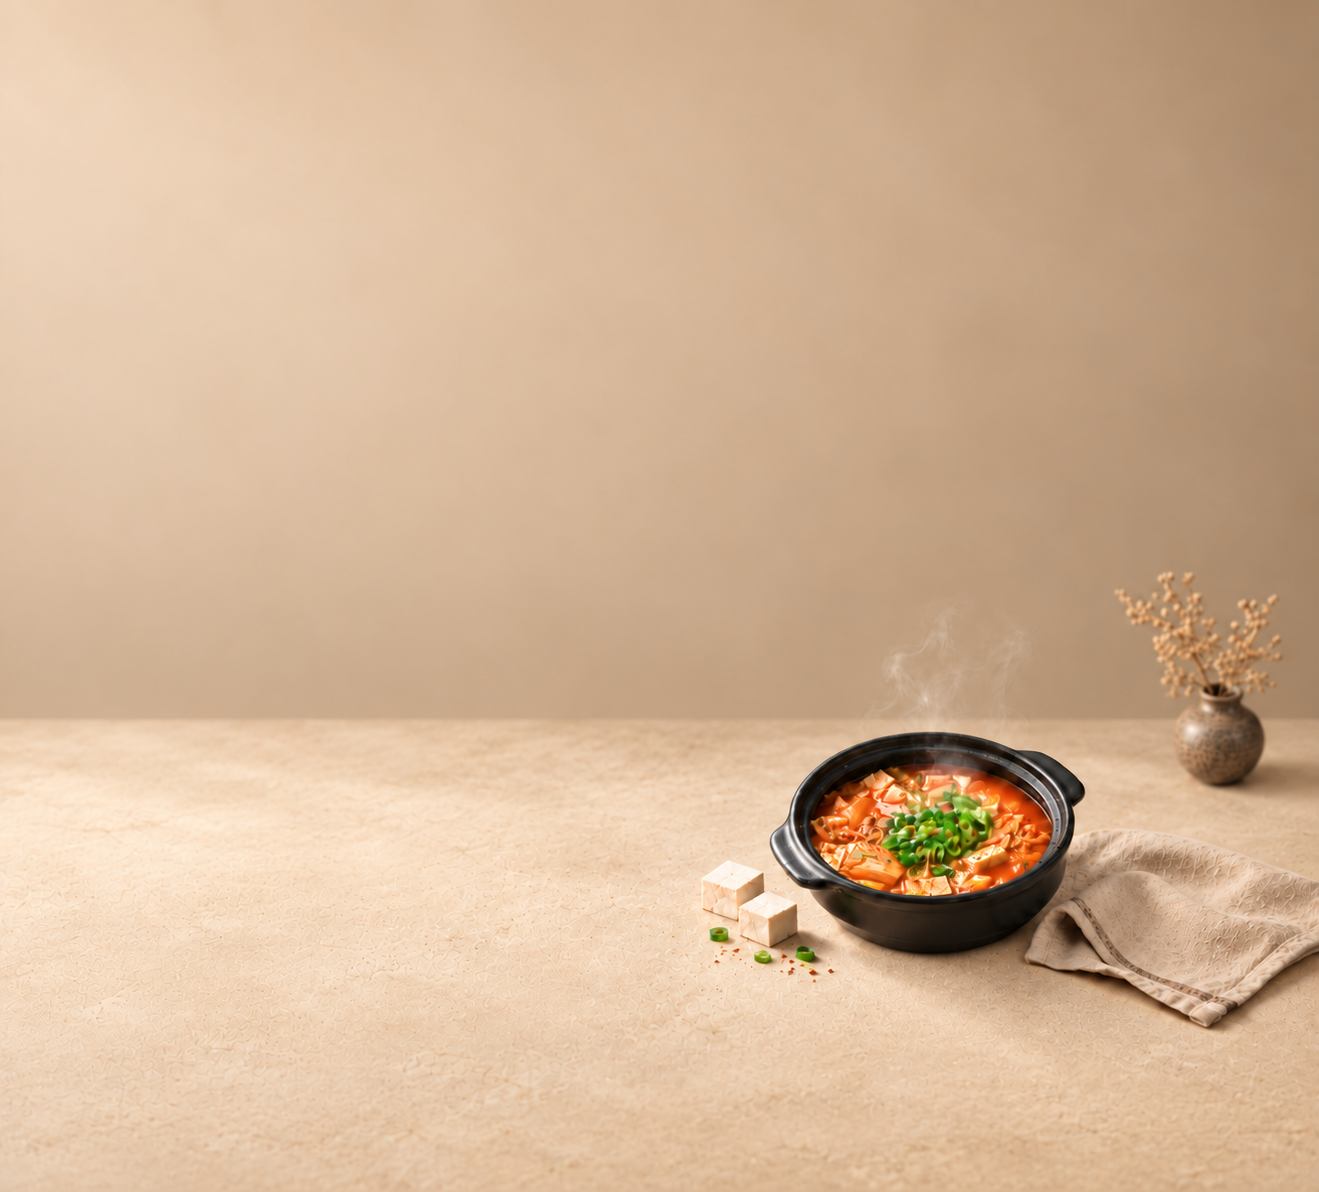
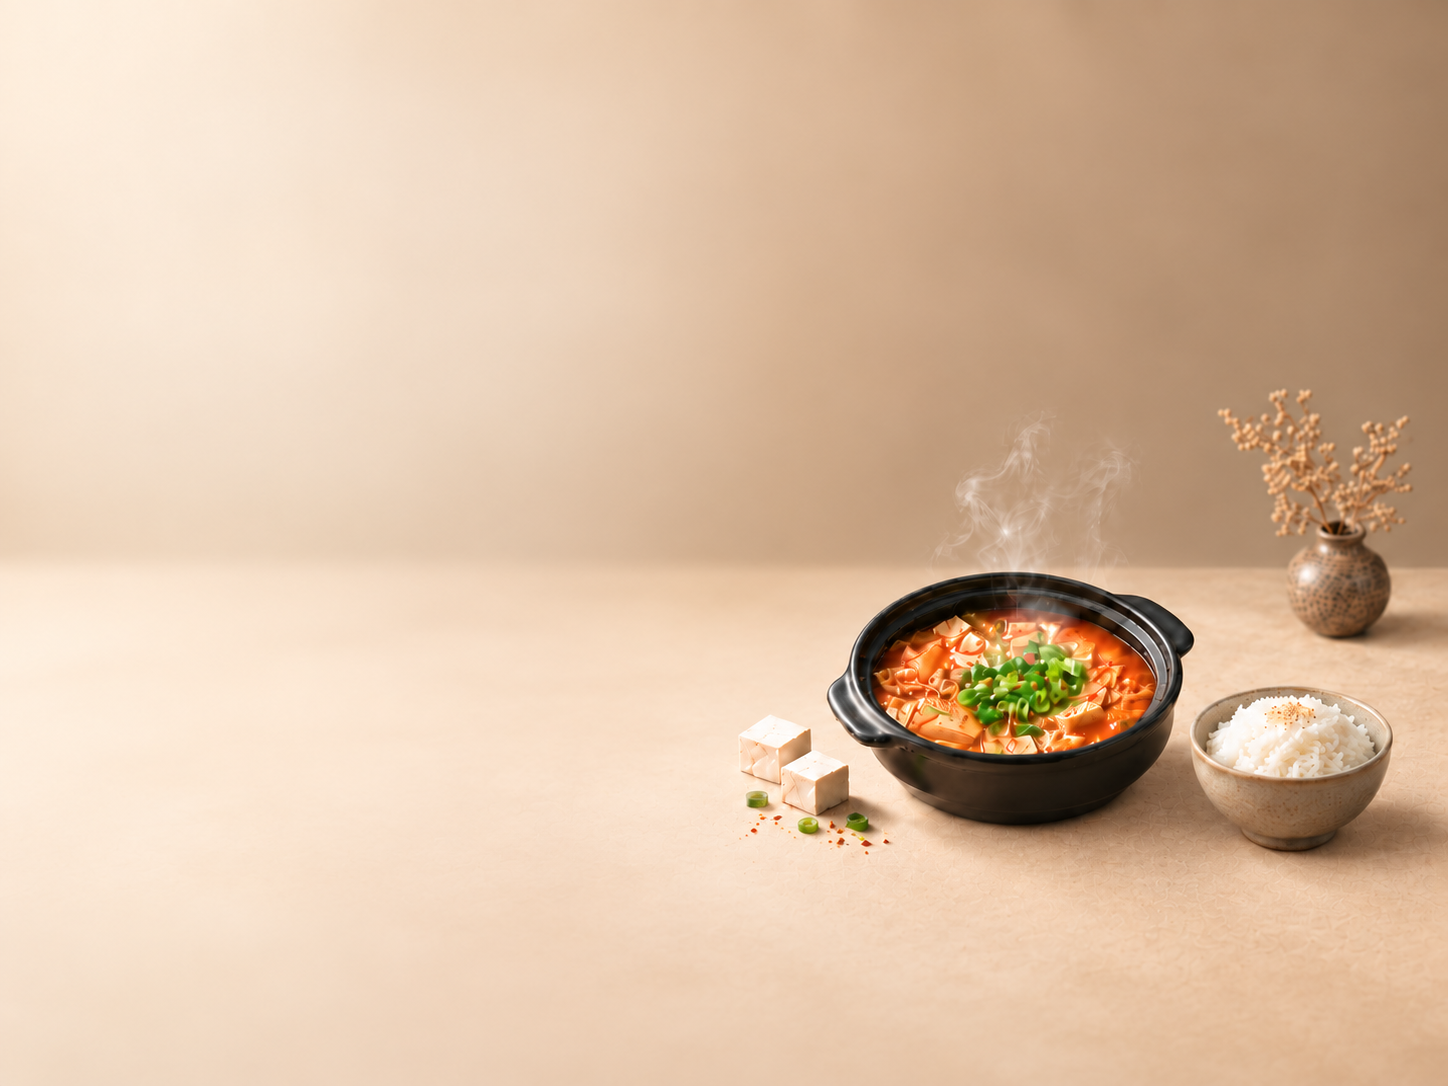
asset: replace tofu hero with new image featuring stew, rice, and vase

diff --git a/landing/tofu-menu.css b/landing/tofu-menu.css
@@ -394,8 +394,8 @@ body {
   width: 100vw;
   height: calc(100vh + 140px);
   background-image: url('assets/tofu-hero-bg.png');
-  background-size: 135%;
-  background-position: 75% 90%;
+  background-size: cover;
+  background-position: center center;
   z-index: -1;
   mask-image: linear-gradient(to bottom, black 70%, transparent 95%);
   -webkit-mask-image: linear-gradient(to bottom, black 70%, transparent 95%);
